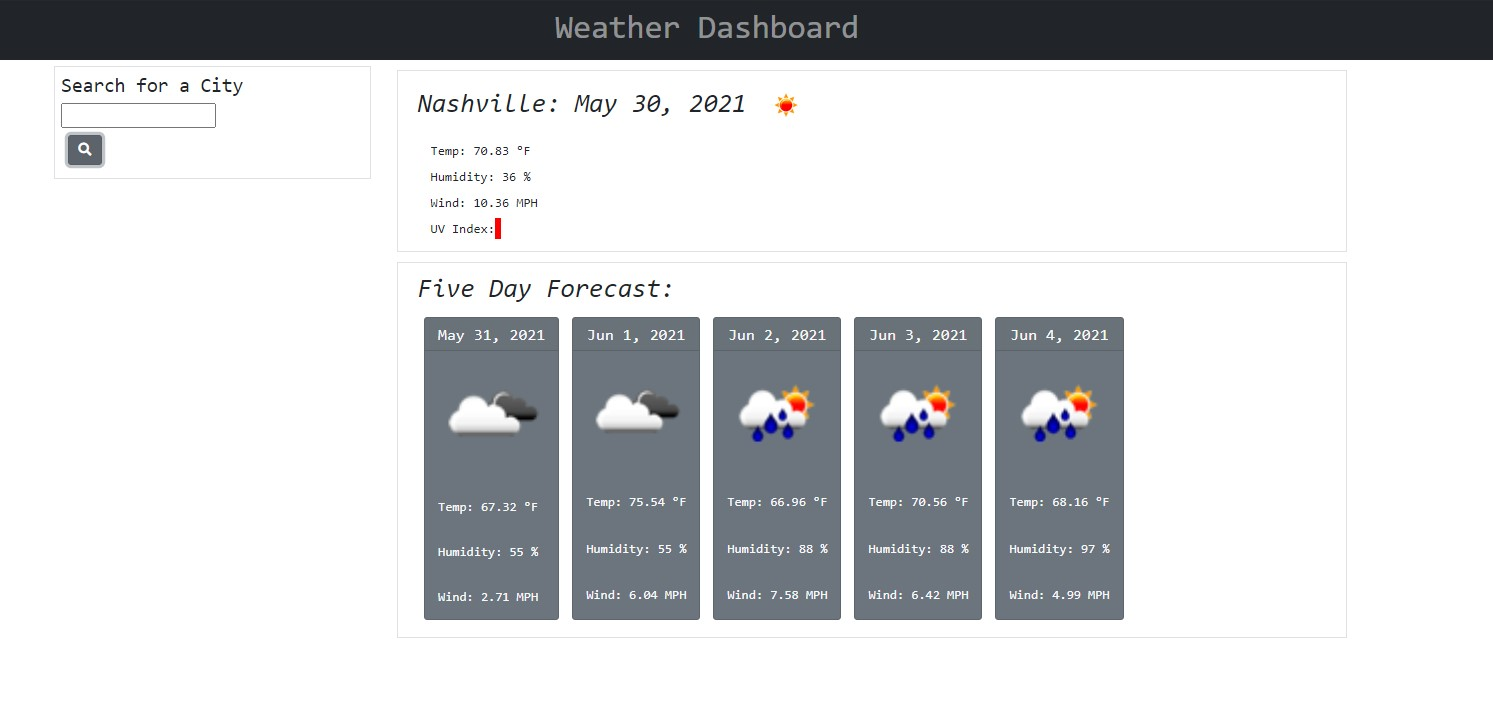
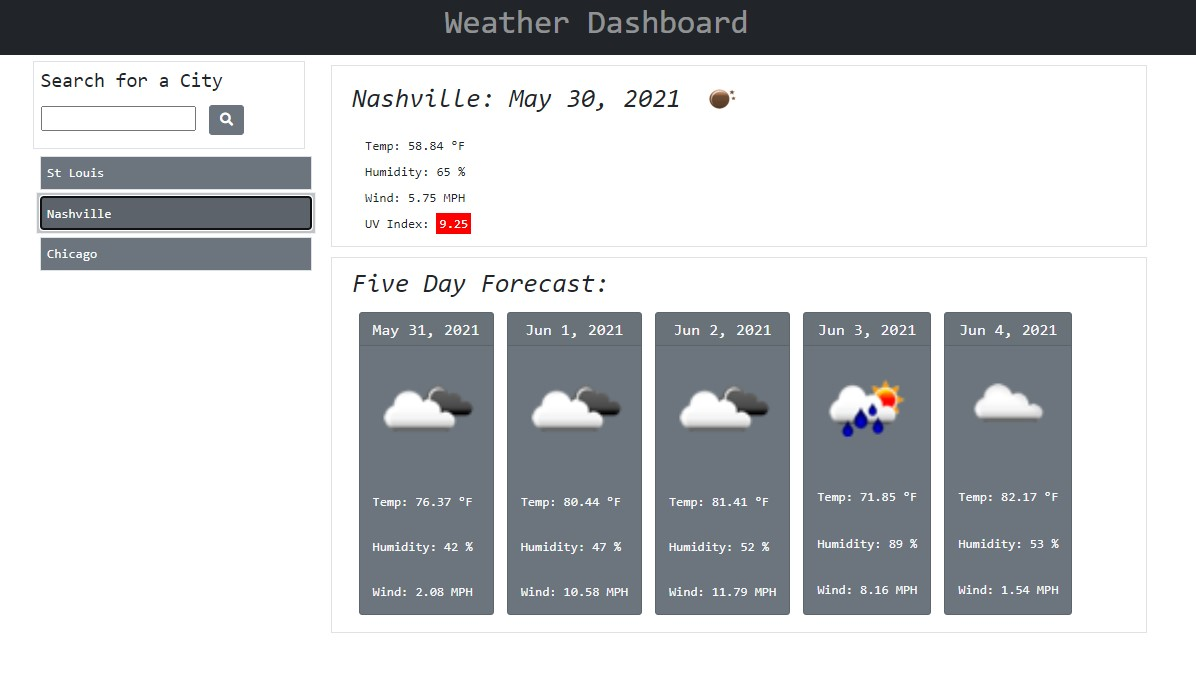
fix UV index bug and update img in readme

diff --git a/assets/js/script.js b/assets/js/script.js
@@ -8,7 +8,6 @@ var fiveDayDiv = document.querySelector("#five-day-container");
 var currentHeader = document.querySelector("#searched-city");
 var fiveDayHeader = document.querySelector("#forecast");
 
-
 var formSubmitHandler = function(event) {
 
 // prevent page from refreshing
@@ -20,9 +19,7 @@ var city = inputEl.value.trim();
 if (city) {
 getWeather(city);
 getFiveDay(city);
-cities.unshift({city});
 
-saveSearch();
 searchHistory(city);
 
 // clear old content
@@ -60,7 +57,7 @@ var displayWeather = function(data, searchCity) {
     currentHeader.textContent = searchCity;
 
     var currentDate = document.createElement("span")
-    currentDate.textContent = ": "+ moment().format("MMM D, YYYY") +" ";
+    currentDate.textContent = " - "+ moment().format("MMM D, YYYY") +" ";
     currentHeader.appendChild(currentDate);
 
     var weatherImg = document.createElement("img")
@@ -90,7 +87,7 @@ var displayWeather = function(data, searchCity) {
 
 var getUvIndex = function (lat, lon) {
 
-  var apiUrl = "https://api.openweathermap.org/data/2.5/onecall?lat=" + lat + "&lon=" + lon + "&appid=259fafdbfd373c06e5bf522bb9ac44cc"
+  var apiUrl = "https://api.openweathermap.org/data/2.5/uvi?lat=" + lat + "&lon=" + lon + "&units=imperial&appid=259fafdbfd373c06e5bf522bb9ac44cc"
 
   fetch(apiUrl)
   .then(function(response) {
@@ -100,18 +97,18 @@ var getUvIndex = function (lat, lon) {
   })
 }
 
-var displayUvIndex = function (index) {
+var displayUvIndex = function (data) {
   var currentWeatherDiv = document.getElementById("current-weather-container");
   var uvIndex = document.createElement("div");
   uvIndex.textContent = "UV Index: ";
   uvIndex.classList = "list-group-item";
   
   uvIndexValue = document.createElement("span");
-  uvIndexValue.textContent = index.value; 
+  uvIndexValue.textContent = data.value; 
 
-  if (index.value <= 2) {
+  if (data.value <= 2) {
     uvIndexValue.classList = "favorable"
-  } else if (index.value > 2 && index.value <= 8) {
+  } else if (data.value > 2 && data.value <= 7) {
     uvIndexValue.classList= "moderate"
   }
   else {
@@ -148,7 +145,7 @@ var displayFiveDay = function(data) {
     var dailyForecast = forecast[i];
 
   var forecastDiv = document.createElement("div")
-  forecastDiv.classList = "card bg-secondary text-light m-2";
+  forecastDiv.classList = "card w-100 bg-secondary text-light m-2";
 
   var forecastDate = document.createElement("h5")
   forecastDate.textContent = moment.unix(dailyForecast.dt).format("MMM D, YYYY");
@@ -156,7 +153,7 @@ var displayFiveDay = function(data) {
   forecastDiv.appendChild(forecastDate);
 
   var weatherIcon = document.createElement("img")
-  weatherIcon.classList = "card-body";
+  weatherIcon.classList = "card-body w-50";
   weatherIcon.setAttribute("src", "http://openweathermap.org/img/w/" + dailyForecast.weather[0].icon + ".png");
   forecastDiv.appendChild(weatherIcon);
 
@@ -180,12 +177,6 @@ var displayFiveDay = function(data) {
   }
 }
 
-
-// add searched cities to localstorage
-var saveSearch = function() {
-    localStorage.setItem("cities", JSON.stringify(cities));
-};
-
 var searchHistory = function(searchHistory) {
 
   searchHistoryBtn = document.createElement("button");
@@ -195,7 +186,6 @@ var searchHistory = function(searchHistory) {
   searchHistoryBtn.setAttribute("type", "submit");
 
   historyButtons.prepend(searchHistoryBtn);
-
 }
 
   var searchHistoryHandler = function (event) {
@@ -205,9 +195,8 @@ var searchHistory = function(searchHistory) {
       getFiveDay(city);
     }
   }
+// fix localstorage
 
 // add event listeners for search button and saved cities
 searchButton.addEventListener("click", formSubmitHandler);
 historyButtons.addEventListener("click", searchHistoryHandler);
-
-// fix bugs with UV Index

diff --git a/index.html b/index.html
@@ -24,7 +24,7 @@
         <div class="col-12 col-md-3 p-2 search-column">
             <form class="border p-2" id="city-search-form">
                 <h4 class="font-monospace">Search for a City</h2>
-                <input id="city" type="text" autofocus="true" class="form-input text-center"/><br />
+                <input id="city" type="text" autofocus="true" class="form-input text-center"/>
                 <button class="btn btn-secondary m-2" id="search-button" type="submit"><i class="fas fa-search"></i></button>
             </form>
             <div class="city-list" id="history-buttons"></div>

diff --git a/assets/css/style.css b/assets/css/style.css
@@ -28,7 +28,7 @@ span.severe{
 
 span.moderate{
     padding: 3px;
-    background-color: yellow;
+    background-color: orange;
 }
 
 span.favorable{
